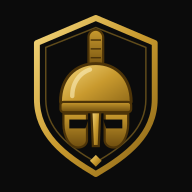
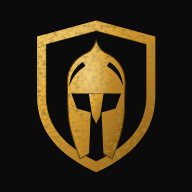
FORTIS v1.3.1 — símbolo igual ao da capa do ebook
- assets/logo.svg redesenhado em vetor a partir do escudo com capacete
  espartano da capa (abertura em T, nasal, fendas laterais, bochechas
  em ponta) com textura de folha de ouro.
- Mesmo símbolo no cabeçalho, nas boas-vindas e (inline) em
  instalar.html.
- Ícones PWA regenerados (192, 512, maskable 512, apple-touch 180,
  favicon 32) renderizando o SVG no Chromium.
- README: instruções para trocar o símbolo e regenerar os ícones.

Claude-Session: https://claude.ai/code/session_01XQbz1fpzY1Aib2NhbtHTyK

Changed region(s): [[0.1562, 0.0625, 0.8438, 0.9375]]

diff --git a/instalar.html b/instalar.html
@@ -29,28 +29,32 @@ h2{font-family:Oswald,"Arial Narrow",Arial,sans-serif;font-size:14px;letter-spac
 </head>
 <body>
 <div class="wrap">
-  <div class="logo"><svg width="120" height="140" viewBox="0 0 96 112">
+  <div class="logo"><svg width="120" height="144" viewBox="0 0 200 240" role="img" aria-label="FORTIS">
 <defs>
-<linearGradient id="gold" x1="0" y1="0" x2="1" y2="1">
-<stop offset="0" stop-color="#F3D67C"/><stop offset=".5" stop-color="#C99A2E"/><stop offset="1" stop-color="#8a6517"/>
+<linearGradient id="fgold" x1="0" y1="0" x2="1" y2="1">
+<stop offset="0" stop-color="#F4CF6A"/><stop offset=".35" stop-color="#DDA233"/><stop offset=".7" stop-color="#B27820"/><stop offset="1" stop-color="#734A10"/>
 </linearGradient>
-<linearGradient id="goldd" x1="0" y1="0" x2="0" y2="1">
-<stop offset="0" stop-color="#C99A2E"/><stop offset="1" stop-color="#6e4d0e"/>
-</linearGradient>
+<radialGradient id="fshine" cx=".38" cy=".3" r=".75">
+<stop offset="0" stop-color="#FFF1B8" stop-opacity=".55"/><stop offset=".5" stop-color="#FFF1B8" stop-opacity="0"/>
+</radialGradient>
+<filter id="fleaf" x="0" y="0" width="1" height="1">
+<feTurbulence type="fractalNoise" baseFrequency=".16 .2" numOctaves="4" seed="11" result="n"/>
+<feColorMatrix in="n" type="matrix" values="0 0 0 0 .36  0 0 0 0 .22  0 0 0 0 .03  0 0 0 -2.8 1.62" result="spots"/>
+<feComposite in="spots" in2="SourceGraphic" operator="atop"/>
+</filter>
 </defs>
-<path d="M48 3 88 20v38c0 24-18 38-40 51C26 96 8 82 8 58V20Z" fill="#0B0B0B" stroke="url(#gold)" stroke-width="4" stroke-linejoin="round"/>
-<path d="M48 9.5 82 23v35c0 20-15 32-34 43-19-11-34-23-34-43V23Z" fill="none" stroke="#C99A2E" stroke-width="1" opacity=".45"/>
-<rect x="43" y="11" width="10" height="27" rx="5" fill="url(#goldd)" stroke="#4d3408" stroke-width="1.5"/>
-<path d="M44.5 18h7M44.5 24h7M44.5 30h7" stroke="#4d3408" stroke-width="1"/>
-<path d="M24 60C24 44 34 34 48 34s24 10 24 26l-2 4H26Z" fill="url(#gold)" stroke="#4d3408" stroke-width="2" stroke-linejoin="round"/>
-<path d="M32 56C32 46 38 40 44 38" fill="none" stroke="#FFF3C4" stroke-width="3" stroke-linecap="round" opacity=".55"/>
-<path d="M26 68h16v18c0 3-3 5-6 5-6 0-10-8-10-16Z" fill="url(#goldd)" stroke="#4d3408" stroke-width="1.5"/>
-<path d="M70 68H54v18c0 3 3 5 6 5 6 0 10-8 10-16Z" fill="url(#goldd)" stroke="#4d3408" stroke-width="1.5"/>
-<rect x="24" y="60" width="48" height="7" rx="2" fill="url(#goldd)" stroke="#4d3408" stroke-width="1.5"/>
-<path d="M30 72h13l-2 6H30Z" fill="#0B0B0B"/>
-<path d="M66 72H53l2 6h11Z" fill="#0B0B0B"/>
-<path d="M45 67h6l-1 23h-4Z" fill="url(#gold)" stroke="#4d3408" stroke-width="1.5"/>
-<path d="M48 96l4 4-4 4-4-4Z" fill="url(#gold)"/>
+<path d="M100 8 188 32V120C188 176 152 210 100 234 48 210 12 176 12 120V32Z" fill="url(#fgold)" filter="url(#fleaf)"/>
+<path d="M100 8 188 32V120C188 176 152 210 100 234 48 210 12 176 12 120V32Z" fill="url(#fshine)"/>
+<path d="M100 24 174 44V120C174 167 144 196 100 217 56 196 26 167 26 120V44Z" fill="#0B0B0B"/>
+<path d="M100 24 174 44V120C174 167 144 196 100 217 56 196 26 167 26 120V44Z" fill="none" stroke="#000" stroke-opacity=".6" stroke-width="2"/>
+<g>
+<path id="helm" d="M100 38C103 47 107 53 113 56 132 64 143 80 143 100L142 140C142 162 135 186 124 214L100 200 76 214C65 186 58 162 58 140L57 100C57 80 68 64 87 56 93 53 97 47 100 38Z" fill="url(#fgold)" filter="url(#fleaf)"/>
+<path d="M100 38C103 47 107 53 113 56 132 64 143 80 143 100L142 140C142 162 135 186 124 214L100 200 76 214C65 186 58 162 58 140L57 100C57 80 68 64 87 56 93 53 97 47 100 38Z" fill="url(#fshine)" stroke="#5a3c0a" stroke-width="1.5"/>
+<path d="M63 117H137L129 139 108 145 111 212H89L92 145 71 139Z" fill="#0B0B0B"/>
+<path d="M89 117H111L106 150 100 162 94 150Z" fill="url(#fgold)" filter="url(#fleaf)"/>
+<path d="M80 70C67 79 61 90 60 106 65 92 72 84 84 76Z" fill="#0B0B0B"/>
+<path d="M120 70C133 79 139 90 140 106 135 92 128 84 116 76Z" fill="#0B0B0B"/>
+</g>
 </svg></div>
   <h1>FORTIS</h1>
   <div class="sub">Calorias • Macros • Progresso</div>

diff --git a/app.js b/app.js
@@ -3,7 +3,7 @@
 "use strict";
 const D = window.FORTIS;
 const C = window.FORTIS_CORE;
-const VERSION = "1.3";
+const VERSION = "1.3.1";
 const $ = (s, r) => (r||document).querySelector(s);
 const $$ = (s, r) => Array.from((r||document).querySelectorAll(s));
 
@@ -461,7 +461,7 @@ function vOnboarding(){ const s=ui.obStep, ob=ui.ob;
   const head=(t,sub)=>`<div class="obhead"><div class="obstep">Passo ${s} de ${OB_LAST}</div><div class="steps" role="progressbar" aria-label="Passo ${s} de ${OB_LAST}" aria-valuemin="1" aria-valuemax="${OB_LAST}" aria-valuenow="${s}">${[1,2,3,4].map(i=>`<i class="${i<=s?"on":""}"></i>`).join("")}</div><h2>${t}</h2>${sub?`<p class="small muted">${sub}</p>`:""}</div>`;
   const nav=(next)=>`<div class="rowbtns"><button class="btn btn-ghost" onclick="App.obBack()">Voltar</button><button class="btn btn-gold" onclick="App.obNext()">${next||"Continuar"}</button></div>`;
   if(s===0) return `<div class="welcome">
-    <img class="wlogo" src="assets/logo.svg" width="132" height="154" alt="">
+    <img class="wlogo" src="assets/logo.svg" width="140" height="168" alt="">
     <h2 class="wtitle">Ganhe massa magra<span>sem passar fome</span></h2>
     <div class="brushbar"></div>
     <p class="wlead">Em 2 minutos o FORTIS calcula <b>quanto você deve comer por dia</b> e te ajuda a acompanhar sua evolução.</p>

diff --git a/index.html b/index.html
@@ -19,7 +19,7 @@
 <body>
 <div id="app">
   <header>
-    <div class="brand"><img id="brandMark" src="assets/logo.svg" width="32" height="37" alt=""><div class="bt" id="brandTitle"></div></div>
+    <div class="brand"><img id="brandMark" src="assets/logo.svg" width="32" height="38" alt=""><div class="bt" id="brandTitle"></div></div>
     <div class="viewtitle" id="viewtitle"></div>
   </header>
   <main id="view"></main>

diff --git a/README.md b/README.md
@@ -16,9 +16,9 @@ Acompanha o ebook + planilha FORTIS. **PWA instalável, 100% offline, dados só 
 - **Suplementação** — 5 referências + toggle de uso + personalizados
 - **Backup** — exportar/importar JSON, exportar CSV, apagar dados
 
-## Identidade visual (v1.1)
-- **Novo logotipo**: escudo dourado com **capacete espartano desenhado em SVG** (`assets/logo.svg`) — cabeçalho do app, página de instalação e ícones PWA.
-- Preto texturizado + dourado metálico, pincelada dourada e os 5 checks da capa (`assets/cover.jpg` na abertura e no Sobre).
+## Identidade visual
+- **Símbolo:** escudo dourado com o **capacete espartano da capa do ebook**, redesenhado em vetor com textura de folha de ouro (`assets/logo.svg`). Usado no cabeçalho, na tela de boas-vindas, na página de instalação e nos ícones PWA.
+- Preto + dourado metálico, pincelada dourada e os 5 checks da capa (`assets/cover.jpg` em *Sobre o método*).
 
 ## Página de instalação + QR code
 - **`instalar.html`** — página autocontida (funciona até em prévia de arquivo) com QR, botão de abrir o app e passo a passo Android/iPhone. Linkada no app em **Mais → Instalar o app**.
@@ -42,7 +42,7 @@ Abra `http://localhost:8080` (app) ou `/instalar.html` (página de instalação)
 - Depois de publicado: Android → Chrome ⋮ → **Instalar app**. iPhone → Safari → Compartilhar → **Adicionar à Tela de Início**.
 
 ## Trocar logo/ícones
-- Substitua `assets/cover.jpg` (capa). Para refazer os ícones a partir de um novo `logo.svg`, renderize com `cairosvg` nos tamanhos 192/512 (+ maskable com margem) — veja o histórico de geração.
+- Substitua `assets/cover.jpg` (capa). Ao mudar `assets/logo.svg`, copie o mesmo SVG para dentro de `instalar.html` (a página é autocontida) e regenere os PNGs de `icons/` (192, 512, maskable 512 com margem de segurança, apple-touch 180, favicon 32) renderizando o SVG num navegador — o `cairosvg` não suporta o filtro de textura.
 
 ## Estrutura do código
 | Arquivo | Papel |
